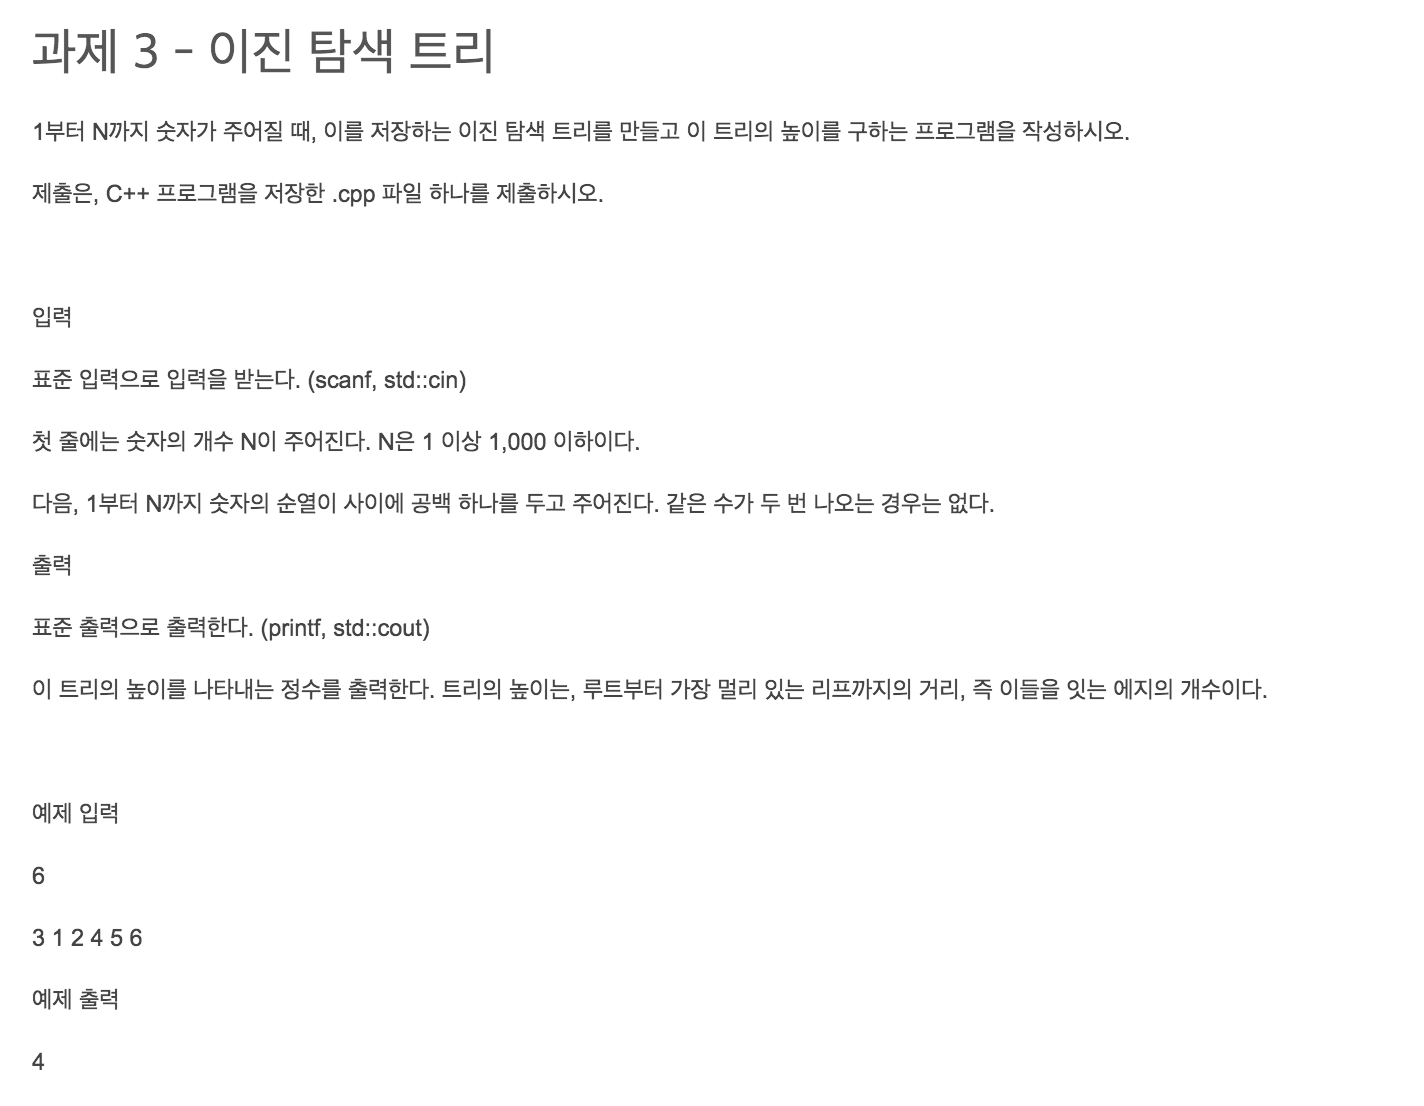
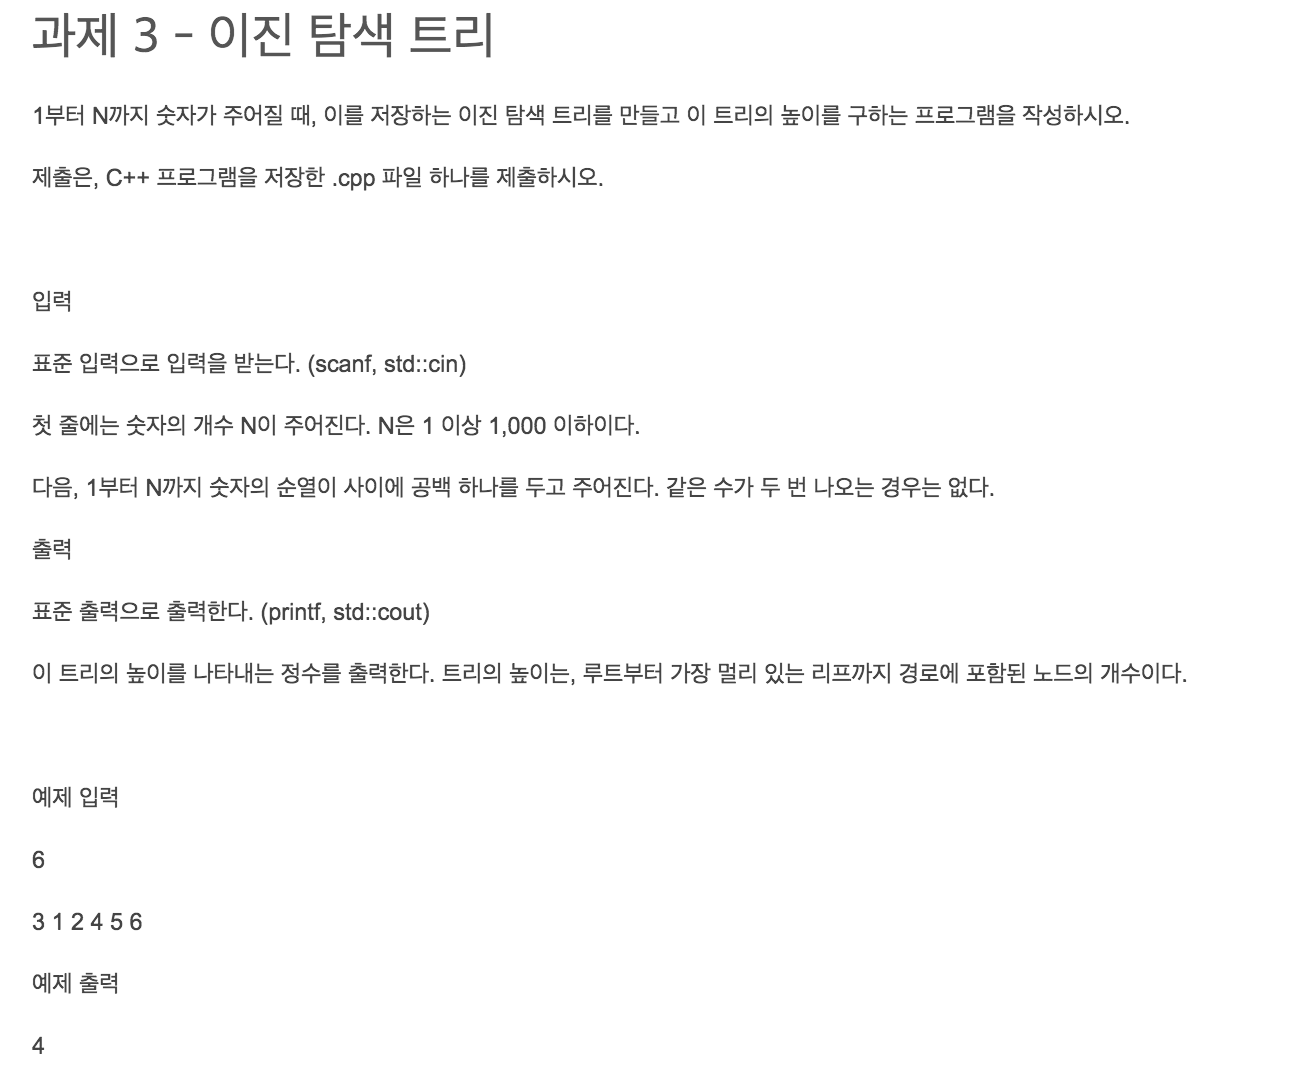
이진트리 과제 문제 수정
이진트리에서 높이를 경로에 포함된 에지의 갯수였는데,
노드의 갯수로 변경됨

diff --git a/data_structure_class/binary_tree_height.cpp b/data_structure_class/binary_tree_height.cpp
@@ -1,21 +1,6 @@
 /*
 2016125086 김유진
 UTF-8      C++     MAC
-
-과제에서 주어진 예제(example)는 
-input : 6
-      3 1 2 4 5 6
-output : 4      이다.
-
-이는 트리(tree)로 만들면 
-      3
-    1    4
-      2    5
-              6   이므로 과제처럼 높이(height)를 가장 긴 경로를 잇는 에지(edge)의 갯수라고 정의한다면
-                              높이(height)는 3이다.
-    
-    검색결과 트리의 높이는 루트로부터 가장 멀리 떨어진 노드와의 거리로 정의된다.
-    이를 기준으로 작성하였다.
  */
 
 #include <iostream>
@@ -41,7 +26,7 @@ void insert_node( NODE **t, int key)
     NODE *n     = (NODE *)malloc(sizeof(NODE));
     NODE *temp  = *t; // temporary node.
 
-    h = 0;   //init height
+    h = 1;   //init height
     n->key  = key;
     n->p    = NULL;
     n->left = NULL;
